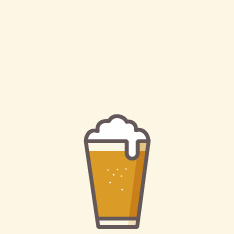
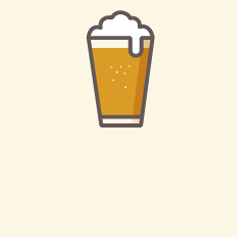
added loading page

Changed region(s): [[0.359, 0.0299, 0.6581, 0.9872]]

diff --git a/app/assets/stylesheets/components/_checkbox.scss b/app/assets/stylesheets/components/_checkbox.scss
@@ -57,10 +57,10 @@
 }
 
 .checkbox-input:checked ~ .checkbox-label {
-  color: black;
-  // border: 3px solid #FEB300;
-  color: rgba(0,0,0,0.7);
-  background: #FEB300;
+  border: 1px solid #FEB300;
+  // transform-origin: 100% 100%;
+  transform: scale(1.05);
+  transition: 0.3s;
 }
 
 
@@ -70,6 +70,7 @@
   background-repeat: no-repeat;
   background-color: #fcf7e4;
   padding: 8px 0px 74px 0px;
+  background-position: center 38px;
 }
 .simple_form label[for='results_category_lager'] {
   background-image: url('lager-icon.jpg');
@@ -77,6 +78,7 @@
   background-repeat: no-repeat;
   background-color: #fcf7e4;
   padding: 8px 0px 74px 0px;
+  background-position: center 44px;
 }
 .simple_form label[for='results_category_cider'] {
   background-image: url('cider-icon.jpg');
@@ -84,6 +86,7 @@
   background-repeat: no-repeat;
   background-color: #fcf7e4;
   padding: 8px 0px 74px 0px;
+  background-position: center 44px;
 }
 .simple_form label[for='results_category_ipa'] {
   background-image: url('ipa-icon.jpg');
@@ -91,6 +94,7 @@
   background-repeat: no-repeat;
   background-color: #fcf7e4;
   padding: 8px 0px 74px 0px;
+  background-position: center 40px;
 }
 
 

diff --git a/app/javascript/packs/application.js b/app/javascript/packs/application.js
@@ -4,9 +4,10 @@ import { initMapbox } from '../plugins/init_mapbox';
 import { initAutocomplete } from '../plugins/init_autocomplete';
 import { initMultistepForm } from '../components/preferences_form';
 import { initModalPopup } from '../components/modal';
-
+// import { initLoadingPage } from '../components/loading_page';
 
 initMapbox();
 initAutocomplete();
 initMultistepForm();
 initModalPopup();
+// initLoadingPage();

diff --git a/app/assets/stylesheets/components/_radio.scss b/app/assets/stylesheets/components/_radio.scss
@@ -1,5 +1,6 @@
-$beer-color: #FEB300;
-$beer-empty-color: #F3E4C0;
+// $beer-color: #FEB300;
+$beer-color: #f3b942;
+$beer-empty-color: #faf2d3;
 $option-height: 40px;
 
 .beer-size-options {
@@ -60,6 +61,7 @@ $option-height: 40px;
     line-height: $option-height;
     border: 1px solid white;
     text-transform: uppercase;
+    letter-spacing: 1px;
   }
 
 }

diff --git a/app/assets/stylesheets/components/_multistep-form.scss b/app/assets/stylesheets/components/_multistep-form.scss
@@ -9,7 +9,7 @@
   position: absolute;
   opacity: 0;
   // transform: translateX(50%);
-  transition: opacity 0.3s, transform 0.2s;
+  transition: opacity 0.3s, transform 0.5s;
 }
 .multistep-form-step--active {
   display: block;

diff --git a/app/assets/stylesheets/components/_beer-bottles.scss b/app/assets/stylesheets/components/_beer-bottles.scss
@@ -1,5 +1,8 @@
-$beer-color: #FEB300;
-$beer-empty-color: #F3E4C0;
+// $beer-color: #FEB300;
+$beer-color: #f3b942;
+// $beer-empty-color: #F3E4C0;
+
+$beer-empty-color: #faf2d3;
 
 .beer-bottle {
   height: 40px;

diff --git a/app/javascript/components/loading_page.js b/app/javascript/components/loading_page.js
@@ -1,0 +1,7 @@
+// export const initLoadingPage = () => {
+// 	$(function() {
+// 	    $(".preload").fadeOut(2000, function() {
+// 	        $(".content").fadeIn(1000);        
+// 	    });
+// 	});
+// }

diff --git a/app/assets/stylesheets/components/_index.scss b/app/assets/stylesheets/components/_index.scss
@@ -9,7 +9,7 @@
 @import "product-modal";
 @import "form";
 @import "slider";
-@import "loading";
 @import "multistep-form";
 @import "beer-bottles";
 @import "filter-dropdown";
+@import "loading-page";

diff --git a/app/assets/stylesheets/components/_filter-dropdown.scss b/app/assets/stylesheets/components/_filter-dropdown.scss
@@ -23,3 +23,8 @@
 //   flex-direction: column;
 //   padding: 0px 12px;
 // }
+
+.dropdown-content {
+	    display: flex;
+    flex-direction: column;
+}

diff --git a/app/assets/stylesheets/components/_loading-page.scss b/app/assets/stylesheets/components/_loading-page.scss
@@ -1,0 +1,6 @@
+.loading-page {
+	background-image: url(loading-page.gif);
+    height: 300px;
+    background-position: center;
+    width: 100%;
+}
